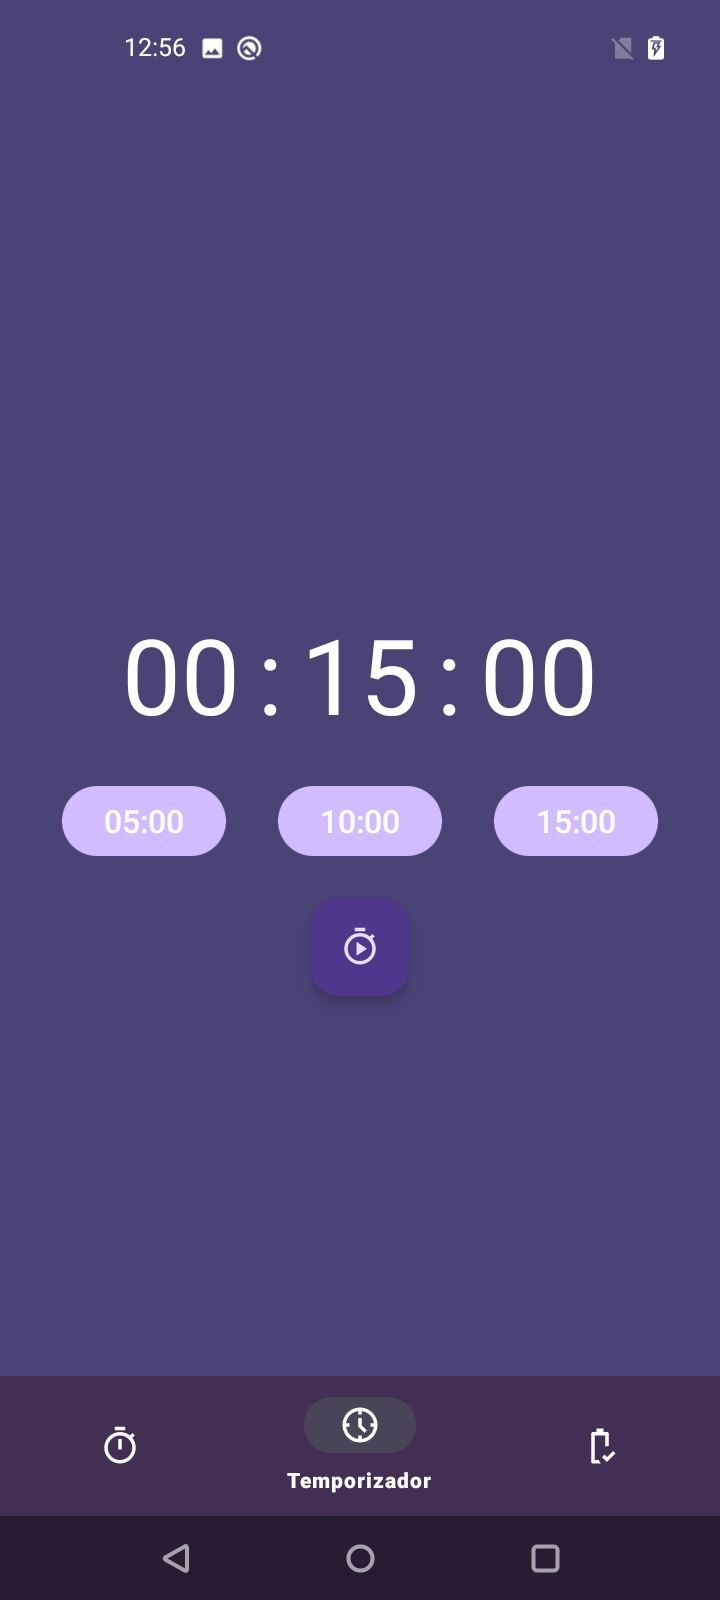
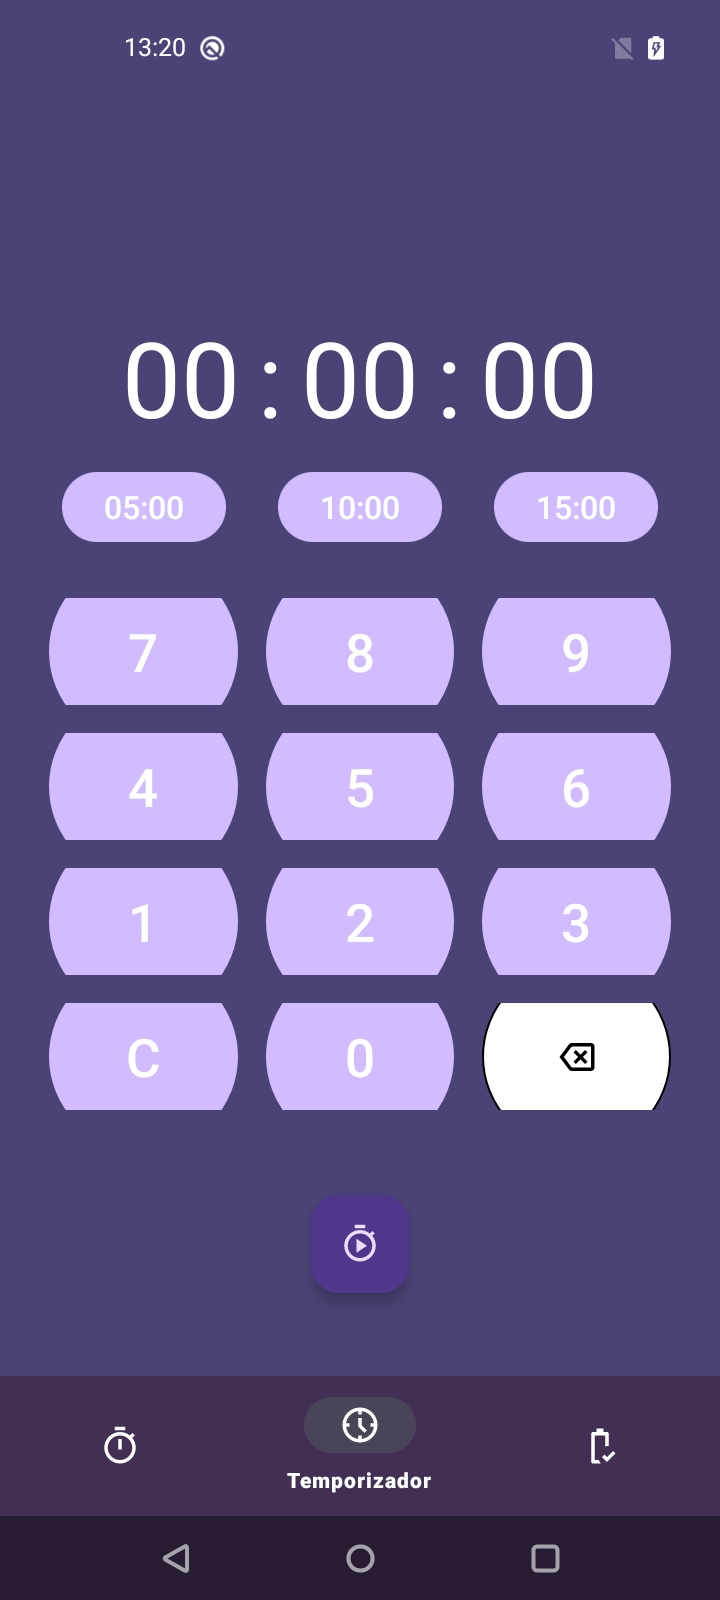
v 1.2.1

diff --git a/app/src/main/java/com/albrecht3/kompilation/clock/TimerFragment.kt b/app/src/main/java/com/albrecht3/kompilation/clock/TimerFragment.kt
@@ -6,7 +6,9 @@ import androidx.fragment.app.Fragment
 import android.view.LayoutInflater
 import android.view.View
 import android.view.ViewGroup
+import android.widget.Button
 import android.widget.Toast
+import androidx.core.view.children
 import com.albrecht3.kompilation.R
 import com.albrecht3.kompilation.databinding.FragmentTimerBinding
 import java.util.Locale
@@ -16,10 +18,13 @@ class TimerFragment : Fragment() {
     private var binding: FragmentTimerBinding? = null
 
     private var timer: CountDownTimer? = null
+    private var lapso = ""
+    private var isClicked = false
+    var valueTimer: Long = 0
 
     override fun onCreate(savedInstanceState: Bundle?) {
         super.onCreate(savedInstanceState)
-        hourGlass()
+        initTimer()
     }
 
     override fun onCreateView(
@@ -33,7 +38,7 @@ class TimerFragment : Fragment() {
 
     override fun onResume() {
         super.onResume()
-        hourGlass()
+        initTimer()
     }
 
     override fun onPause() {
@@ -42,7 +47,7 @@ class TimerFragment : Fragment() {
 
     override fun onViewCreated(view: View, savedInstanceState: Bundle?) {
         super.onViewCreated(view, savedInstanceState)
-        hourGlass()
+        initTimer()
     }
 
     override fun onDestroy() {
@@ -50,26 +55,39 @@ class TimerFragment : Fragment() {
         binding = null
     }
 
-    private fun hourGlass() {
-        var setTimer: Long = 0
+    private fun initTimer(){
+        setTimeDefault()
+        binding?.fabStart?.setOnClickListener {
+            isClicked = !isClicked
+            Toast.makeText(requireContext(), valueTimer.toString(), Toast.LENGTH_LONG).show()
+            if (isClicked){
+                startTimer(valueTimer)
+                disableButtons()
+            }
+        }
+        isClicked =false
+    }
+    private fun setTimeDefault(){
+        val minute: Long = 60000
         binding?.btnSetTime1?.setOnClickListener {
-            setTimer = 300000
+            valueTimer = 0
+            valueTimer = 5*minute
             binding?.tvTmpMin?.text = "05"
-            binding?.fabStart?.setOnClickListener { startTimer(setTimer) }
+            Toast.makeText(requireContext(), valueTimer.toString(), Toast.LENGTH_LONG).show()
         }
         binding?.btnSetTime2?.setOnClickListener {
-            setTimer = 600000
+            valueTimer = 0
+            valueTimer = 10*minute
             binding?.tvTmpMin?.text = "10"
-            binding?.fabStart?.setOnClickListener { startTimer(setTimer) }
+            Toast.makeText(requireContext(), valueTimer.toString(), Toast.LENGTH_LONG).show()
         }
         binding?.btnSetTime3?.setOnClickListener {
-            setTimer = 900000
+            valueTimer = 0
+            valueTimer = 15*minute
             binding?.tvTmpMin?.text = "15"
-            binding?.fabStart?.setOnClickListener { startTimer(setTimer) }
+            Toast.makeText(requireContext(), valueTimer.toString(), Toast.LENGTH_LONG).show()
         }
-
     }
-
 
     private fun startTimer(p10: Long) {
         timer = object : CountDownTimer(p10,1000){
@@ -89,9 +107,17 @@ class TimerFragment : Fragment() {
                 Toast.makeText(requireContext(), getString(R.string.time_out), Toast.LENGTH_SHORT).show()
             }
 
-            private fun makeTimeString(time: Long): String {
-                return String.format(Locale.getDefault(),"%02d",time)
-            }
         }.start()
     }
+
+    private fun makeTimeString(time: Long): String {
+        return String.format(Locale.getDefault(),"%02d",time)
+    }
+
+    private fun disableButtons() {
+        binding?.btnSetTime1?.isEnabled = false
+        binding?.btnSetTime2?.isEnabled = false
+        binding?.btnSetTime3?.isEnabled = false
+    }
 }
+

diff --git a/README.md b/README.md
@@ -8,7 +8,7 @@
 <p>cronometro</p>
 
 <p>Temporizador</p>
-<p align="center"><img src="screenshots/timer1.jpg" height=400/> <p align="center"><img src="screenshots/timer2.jpg" height=400/>
+<p align="center"><img src="screenshots/timer1.jpg" height=400/> <p align="center"><img src="screenshots/timer2.jpg" height=400/> <p align="center"><img src="screenshots/timer3.jpg" height=400/>
 
 <p>Informacion de Bateria</p>
 <p align="center"><img src="screenshots/battery.jpg" height=400/>
